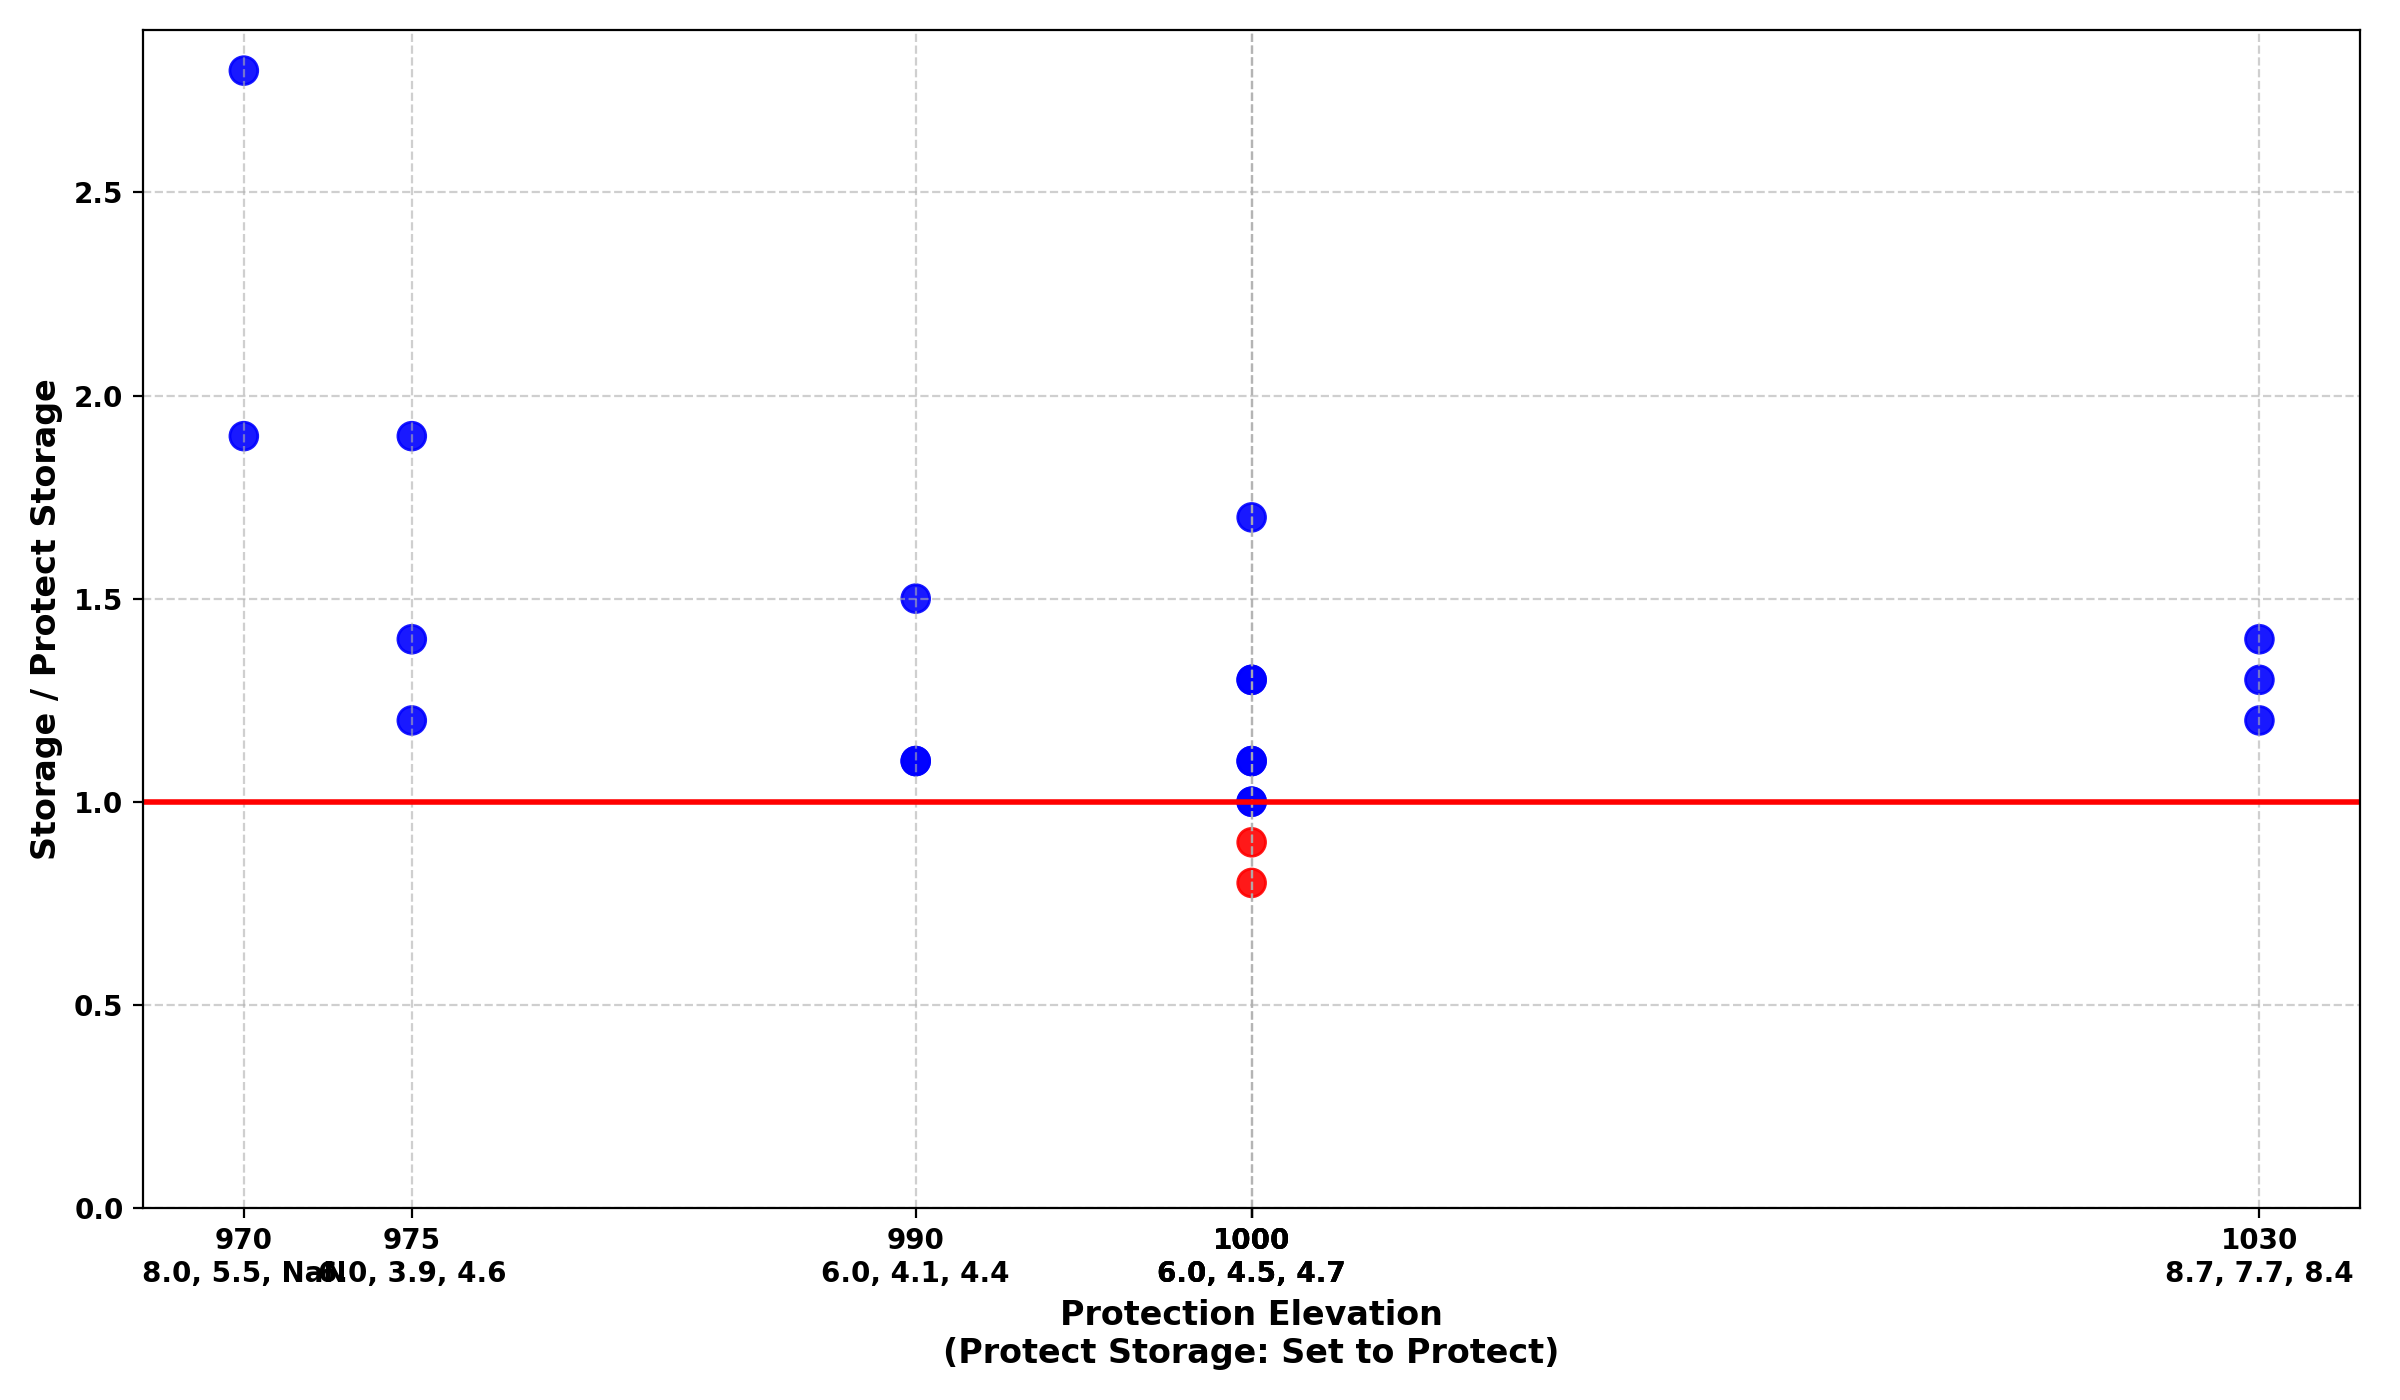
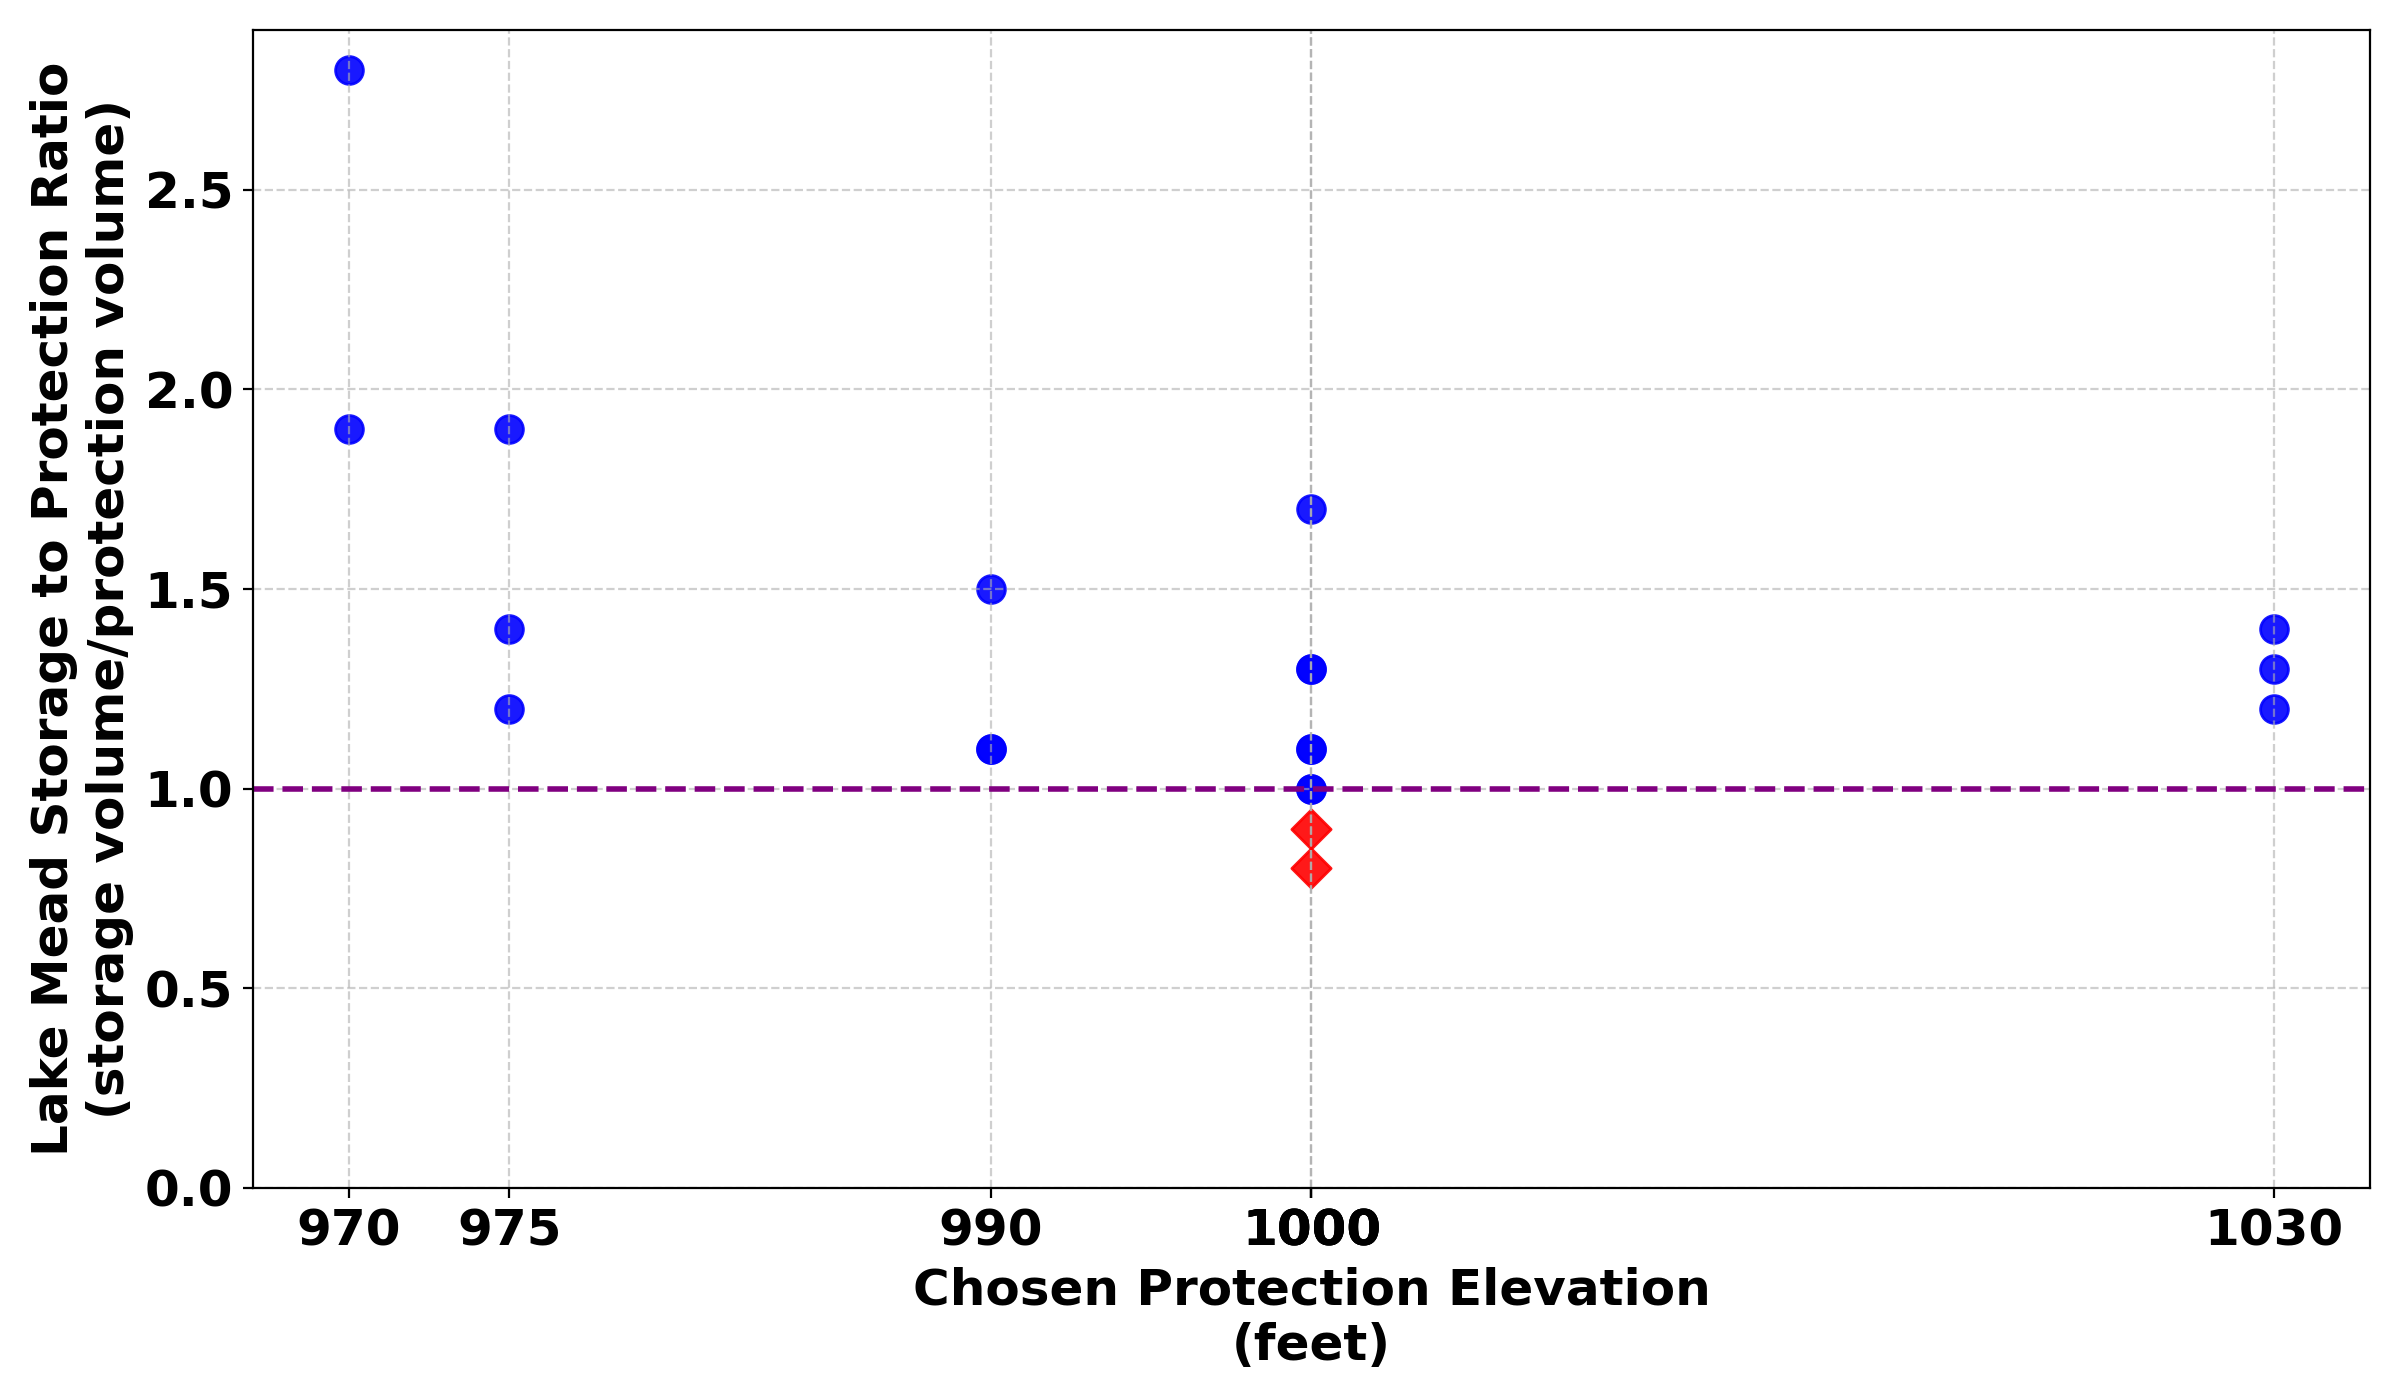
Made graphs work correctly

diff --git a/Blog Post/aitry.py b/Blog Post/aitry.py
@@ -3,7 +3,9 @@ import pandas as pd
 import matplotlib.pyplot as plt
 from pathlib import Path
 
-# Locates code and input
+# ------------------------------------------------------------
+# Load data
+# ------------------------------------------------------------
 code_file = Path(__file__)
 input_file = code_file.parent / 'LowStorageBlogGraph.xlsx'
 
@@ -11,34 +13,33 @@ input_file = code_file.parent / 'LowStorageBlogGraph.xlsx'
 ensemble = pd.read_excel(input_file)
 ensemble.iloc[:, 3:6] = ensemble.iloc[:, 3:6].apply(pd.to_numeric, errors="coerce")
 
-# Defines each session to three rows
+# ------------------------------------------------------------
+# Parse the session data
+# ------------------------------------------------------------
 session_data = 3
 length = len(ensemble)
 
-# Builds arrays storages in sessions
 all_years = []
 all_elevs = []
 protect_storages = []
 protect_elevs = []
 
 for first in range(0, length, session_data):
-    sessions = ensemble.iloc[first:first + session_data, 3:6]   # Extracts year columns
-
-    years = sessions.iloc[0].values  # Locates year storage data in sessions
+    sessions = ensemble.iloc[first:first + session_data, 3:6]
+    years = sessions.iloc[0].values                    # storage row
+    elevs = sessions.iloc[2].values                    # elevation row
     all_years.append(years)
-
-    elevs = sessions.iloc[2].values  # Locates year storage data in sessions
     all_elevs.append(elevs)
 
-    protect_s = ensemble.iloc[first:first + session_data, 2]   # Extracts protect column
+    protect_s = ensemble.iloc[first:first + session_data, 2]
     storage = protect_s.iloc[0]
+    elevation = protect_s.iloc[2]
     protect_storages.append(storage)
-
-    protect_e = ensemble.iloc[first:first + session_data, 2]   # Extracts protect column
-    elevation = protect_e.iloc[2]
     protect_elevs.append(elevation)
 
-
+# ------------------------------------------------------------
+# Select session (example: May 22nd)
+# ------------------------------------------------------------
 all_years = np.array(all_years)
 aug_twenty_storage = all_years[0]
 aug_twenty_protect_s = protect_storages[0]
@@ -46,13 +47,15 @@ aug_twenty_elevation = all_elevs[0]
 aug_twenty_protect_e = protect_elevs[0]
 year_header = np.array(list(ensemble.columns)[3:6])
 
-print(year_header)
-print(aug_twenty_storage)
-print(aug_twenty_protect_s)
-print(aug_twenty_protect_e)
-print(aug_twenty_elevation)
+print("Years:", year_header)
+print("Storage:", aug_twenty_storage)
+print("Protect storage:", aug_twenty_protect_s)
+print("Protect elevation:", aug_twenty_protect_e)
+print("Elevation:", aug_twenty_elevation)
 
-
+# ------------------------------------------------------------
+# Plot - Storage
+# ------------------------------------------------------------
 aug_twenty_protect_s_series = np.repeat(aug_twenty_protect_s, len(year_header))
 
 fig, ax1 = plt.subplots()
@@ -62,7 +65,7 @@ ax1.plot(year_header, aug_twenty_protect_s_series, marker='d', markersize=8,
          color='red', linewidth=3, label='Protection Limit')
 
 ax1.set_ylim(bottom=0)
-ax1.set_ylabel('Storage (million acre-feet)', fontweight='bold', fontsize=12)
+ax1.set_ylabel('Storage', fontweight='bold', fontsize=12)
 ax1.tick_params(axis='y', labelsize=11)
 ax1.tick_params(axis='x', labelsize=11)
 for label in ax1.get_xticklabels() + ax1.get_yticklabels():
@@ -70,13 +73,19 @@ for label in ax1.get_xticklabels() + ax1.get_yticklabels():
 ax1.grid(linewidth=1)
 ax1.set_xlabel(None, fontweight='bold', fontsize=12)
 
-
+# ------------------------------------------------------------
+# Plot - Elevation (Right axis)
+# ------------------------------------------------------------
 ax2 = ax1.twinx()
 
+# Match y limits and ticks
 ax2.set_ylim(ax1.get_ylim())
 ax2.set_yticks(ax1.get_yticks())
 
-
+# Build linear mapping with anchor points
+# 0 storage -> 0 elevation
+# protection storage -> 1000 ft
+# storage values from Excel -> their elevation
 S_anchor = np.array([0.0, aug_twenty_protect_s, *aug_twenty_storage], dtype=float)
 E_anchor = np.array([0.0, 1000.0, *aug_twenty_elevation], dtype=float)
 
@@ -84,13 +93,16 @@ order = np.argsort(S_anchor)
 S_sorted = S_anchor[order]
 E_sorted = E_anchor[order]
 
+# Interpolate labels
 elev_labels = np.interp(ax1.get_yticks(), S_sorted, E_sorted)
 
 ax2.set_yticklabels([f"{e:.1f}" for e in elev_labels], fontweight='bold')
-ax2.set_ylabel('Elevation (feet)', fontweight='bold', fontsize=12)
+ax2.set_ylabel('Elevation (ft)', fontweight='bold', fontsize=12)
 ax2.tick_params(axis='y', labelsize=11)
 
-
+# ------------------------------------------------------------
+# Legend and export
+# ------------------------------------------------------------
 ax1.legend(loc='best', fontsize=11, frameon=True)
 plt.savefig('TimeSeries.png')
 plt.show()

diff --git a/Blog Post/TSOld.py b/Blog Post/TSOld.py
@@ -52,45 +52,56 @@ print(aug_twenty_protect_s)
 print(aug_twenty_protect_e)
 print(aug_twenty_elevation)
 
-
 aug_twenty_protect_s_series = np.repeat(aug_twenty_protect_s, len(year_header))
 
+# y-axis (storage)
 fig, ax1 = plt.subplots()
-ax1.plot(year_header, aug_twenty_storage, marker='o', markersize=8, linewidth=3,
-         label='Storage', color='tab:blue')
-ax1.plot(year_header, aug_twenty_protect_s_series, marker='d', markersize=8,
-         color='red', linewidth=3, label='Protection Limit')
-
+ax1.plot(year_header, aug_twenty_storage, marker='o', markersize=8, linewidth=3, label='Storage', color='tab:blue')
+ax1.plot(year_header, aug_twenty_protect_s_series, marker='d', markersize=8,color='red', linewidth=3, label='Protection Limit')
 ax1.set_ylim(bottom=0)
-ax1.set_ylabel('Storage (million acre-feet)', fontweight='bold', fontsize=12)
+ax1.set_ylabel('Storage', fontweight='bold', fontsize=12)
 ax1.tick_params(axis='y', labelsize=11)
 ax1.tick_params(axis='x', labelsize=11)
+
 for label in ax1.get_xticklabels() + ax1.get_yticklabels():
     label.set_fontweight('bold')
+
 ax1.grid(linewidth=1)
 ax1.set_xlabel(None, fontweight='bold', fontsize=12)
 
-
+# Secondary y-axis (elevation)
 ax2 = ax1.twinx()
 
+# Match the y limits and ticks to the left axis
 ax2.set_ylim(ax1.get_ylim())
 ax2.set_yticks(ax1.get_yticks())
 
+order = np.argsort(aug_twenty_storage)
+S_sorted = aug_twenty_storage[order]
+E_sorted = aug_twenty_elevation[order]
 
-S_anchor = np.array([0.0, aug_twenty_protect_s, *aug_twenty_storage], dtype=float)
-E_anchor = np.array([0.0, 1000.0, *aug_twenty_elevation], dtype=float)
-
-order = np.argsort(S_anchor)
-S_sorted = S_anchor[order]
-E_sorted = E_anchor[order]
-
+# Interpolate elevation labels from the Excel pairs
 elev_labels = np.interp(ax1.get_yticks(), S_sorted, E_sorted)
 
+# Apply labels
 ax2.set_yticklabels([f"{e:.1f}" for e in elev_labels], fontweight='bold')
-ax2.set_ylabel('Elevation (feet)', fontweight='bold', fontsize=12)
+ax2.set_ylabel('Elevation (ft)', fontweight='bold', fontsize=12)
 ax2.tick_params(axis='y', labelsize=11)
 
+# Set labels and formatting
+ax2.set_yticklabels([f"{e:.1f}" for e in elev_labels], fontweight='bold')
+ax2.set_ylabel('Elevation (ft)', fontweight='bold', fontsize=12)
+ax2.tick_params(axis='y', labelsize=11)
 
+# Legend and title
 ax1.legend(loc='best', fontsize=11, frameon=True)
 plt.savefig('TimeSeries.png')
 plt.show()
+
+# Creating box plot figure
+# plt.plot(year_header, aug_twenty_storage, marker='o', label='Storage')
+# plt.plot(year_header, aug_twenty_protect_s_series, color='red', label='Protection Limit')
+# plt.ylim(bottom=0)
+# plt.grid()
+# plt.ylabel('Storage')
+# plt.legend()

diff --git a/Blog Post/SessionDotPlot.py b/Blog Post/SessionDotPlot.py
@@ -71,14 +71,26 @@ for i in range(len(protect_elevs)):
     all_x.extend(x_values)
     all_y.extend(y_values)
 
-point_colors = ['red' if (y < 1.0) else 'blue' for y in all_y]
+# point_colors = ['red' if (y < 1.0) else 'blue' for y in all_y]
+#
+# plt.scatter(all_x, all_y, color=point_colors, marker='o', s=100, alpha=0.9)
 
-plt.scatter(all_x, all_y, color=point_colors, s=100, alpha=0.9)
+# Separate red and blue points
+red_x = [x for x, y in zip(all_x, all_y) if y < 1.0]
+red_y = [y for y in all_y if y < 1.0]
+blue_x = [x for x, y in zip(all_x, all_y) if y >= 1.0]
+blue_y = [y for y in all_y if y >= 1.0]
 
-plt.axhline(1.0, color='red', linewidth=2.0, linestyle='-')
 
-plt.xlabel('Protection Elevation\n(Protect Storage: Set to Protect)', fontsize=12, fontweight='bold')
-plt.ylabel('Storage / Protect Storage', fontsize=12, fontweight='bold')
+plt.scatter(red_x, red_y, color='red', marker='D', s=100, alpha=0.9)
+plt.scatter(blue_x, blue_y, color='blue', marker='o', s=100, alpha=0.9)
+
+
+
+plt.axhline(1.0, color='purple', linewidth=2.0, linestyle='--')
+
+plt.xlabel('Chosen Protection Elevation\n(feet)', fontsize=18, fontweight='bold')
+plt.ylabel('Lake Mead Storage to Protection Ratio\n(storage volume/protection volume)', fontsize=18, fontweight='bold')
 
 
 unique_elevs = protect_elevs.tolist()
@@ -89,14 +101,12 @@ for i, elev in enumerate(unique_elevs):
     else:
         elev_str = f"{elev:.1f}"
 
-    stor_vals = all_storages[i] if i < len(all_storages) else [np.nan, np.nan, np.nan]
-    stor_formatted = ", ".join([f"{s:.1f}" if not np.isnan(s) else "NaN" for s in stor_vals])
-
-    label = f"{elev_str}\n{stor_formatted}"
+    label = f"{elev_str}"
     xtick_labels.append(label)
 
 ax.set_xticks(unique_elevs)
-ax.set_xticklabels(xtick_labels, fontsize=10, fontweight='bold')
+plt.yticks(fontsize=18, fontweight='bold')
+ax.set_xticklabels(xtick_labels, fontsize=18, fontweight='bold')
 
 for label in ax.get_yticklabels():
     label.set_fontweight('bold')
